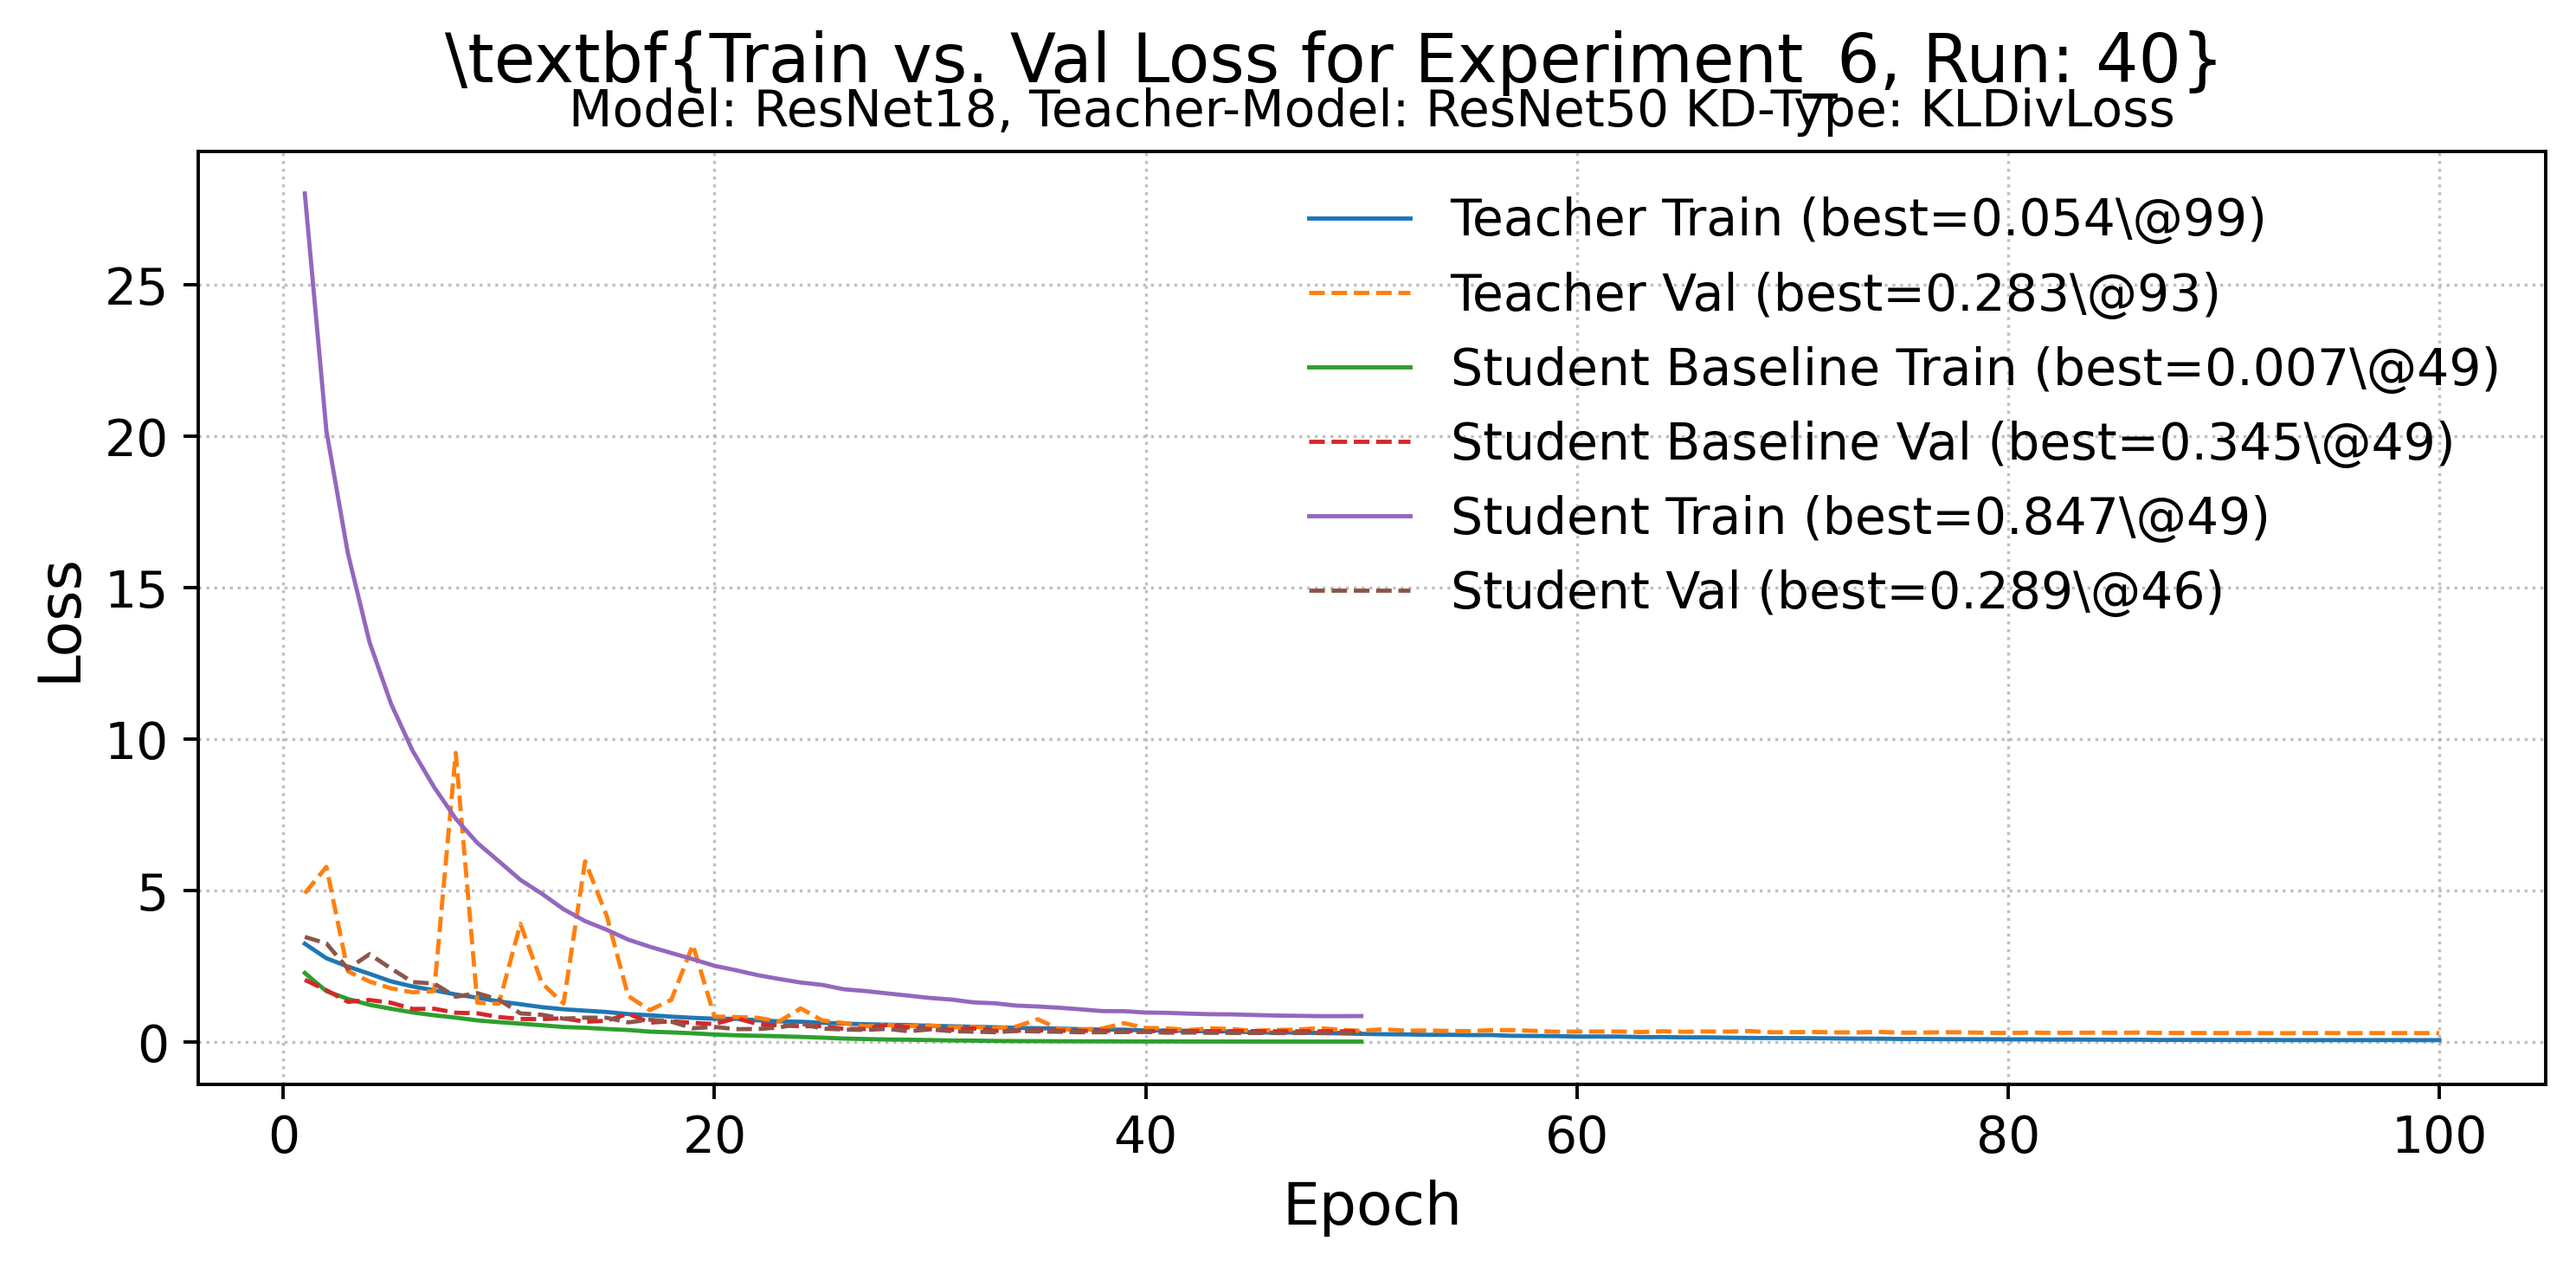
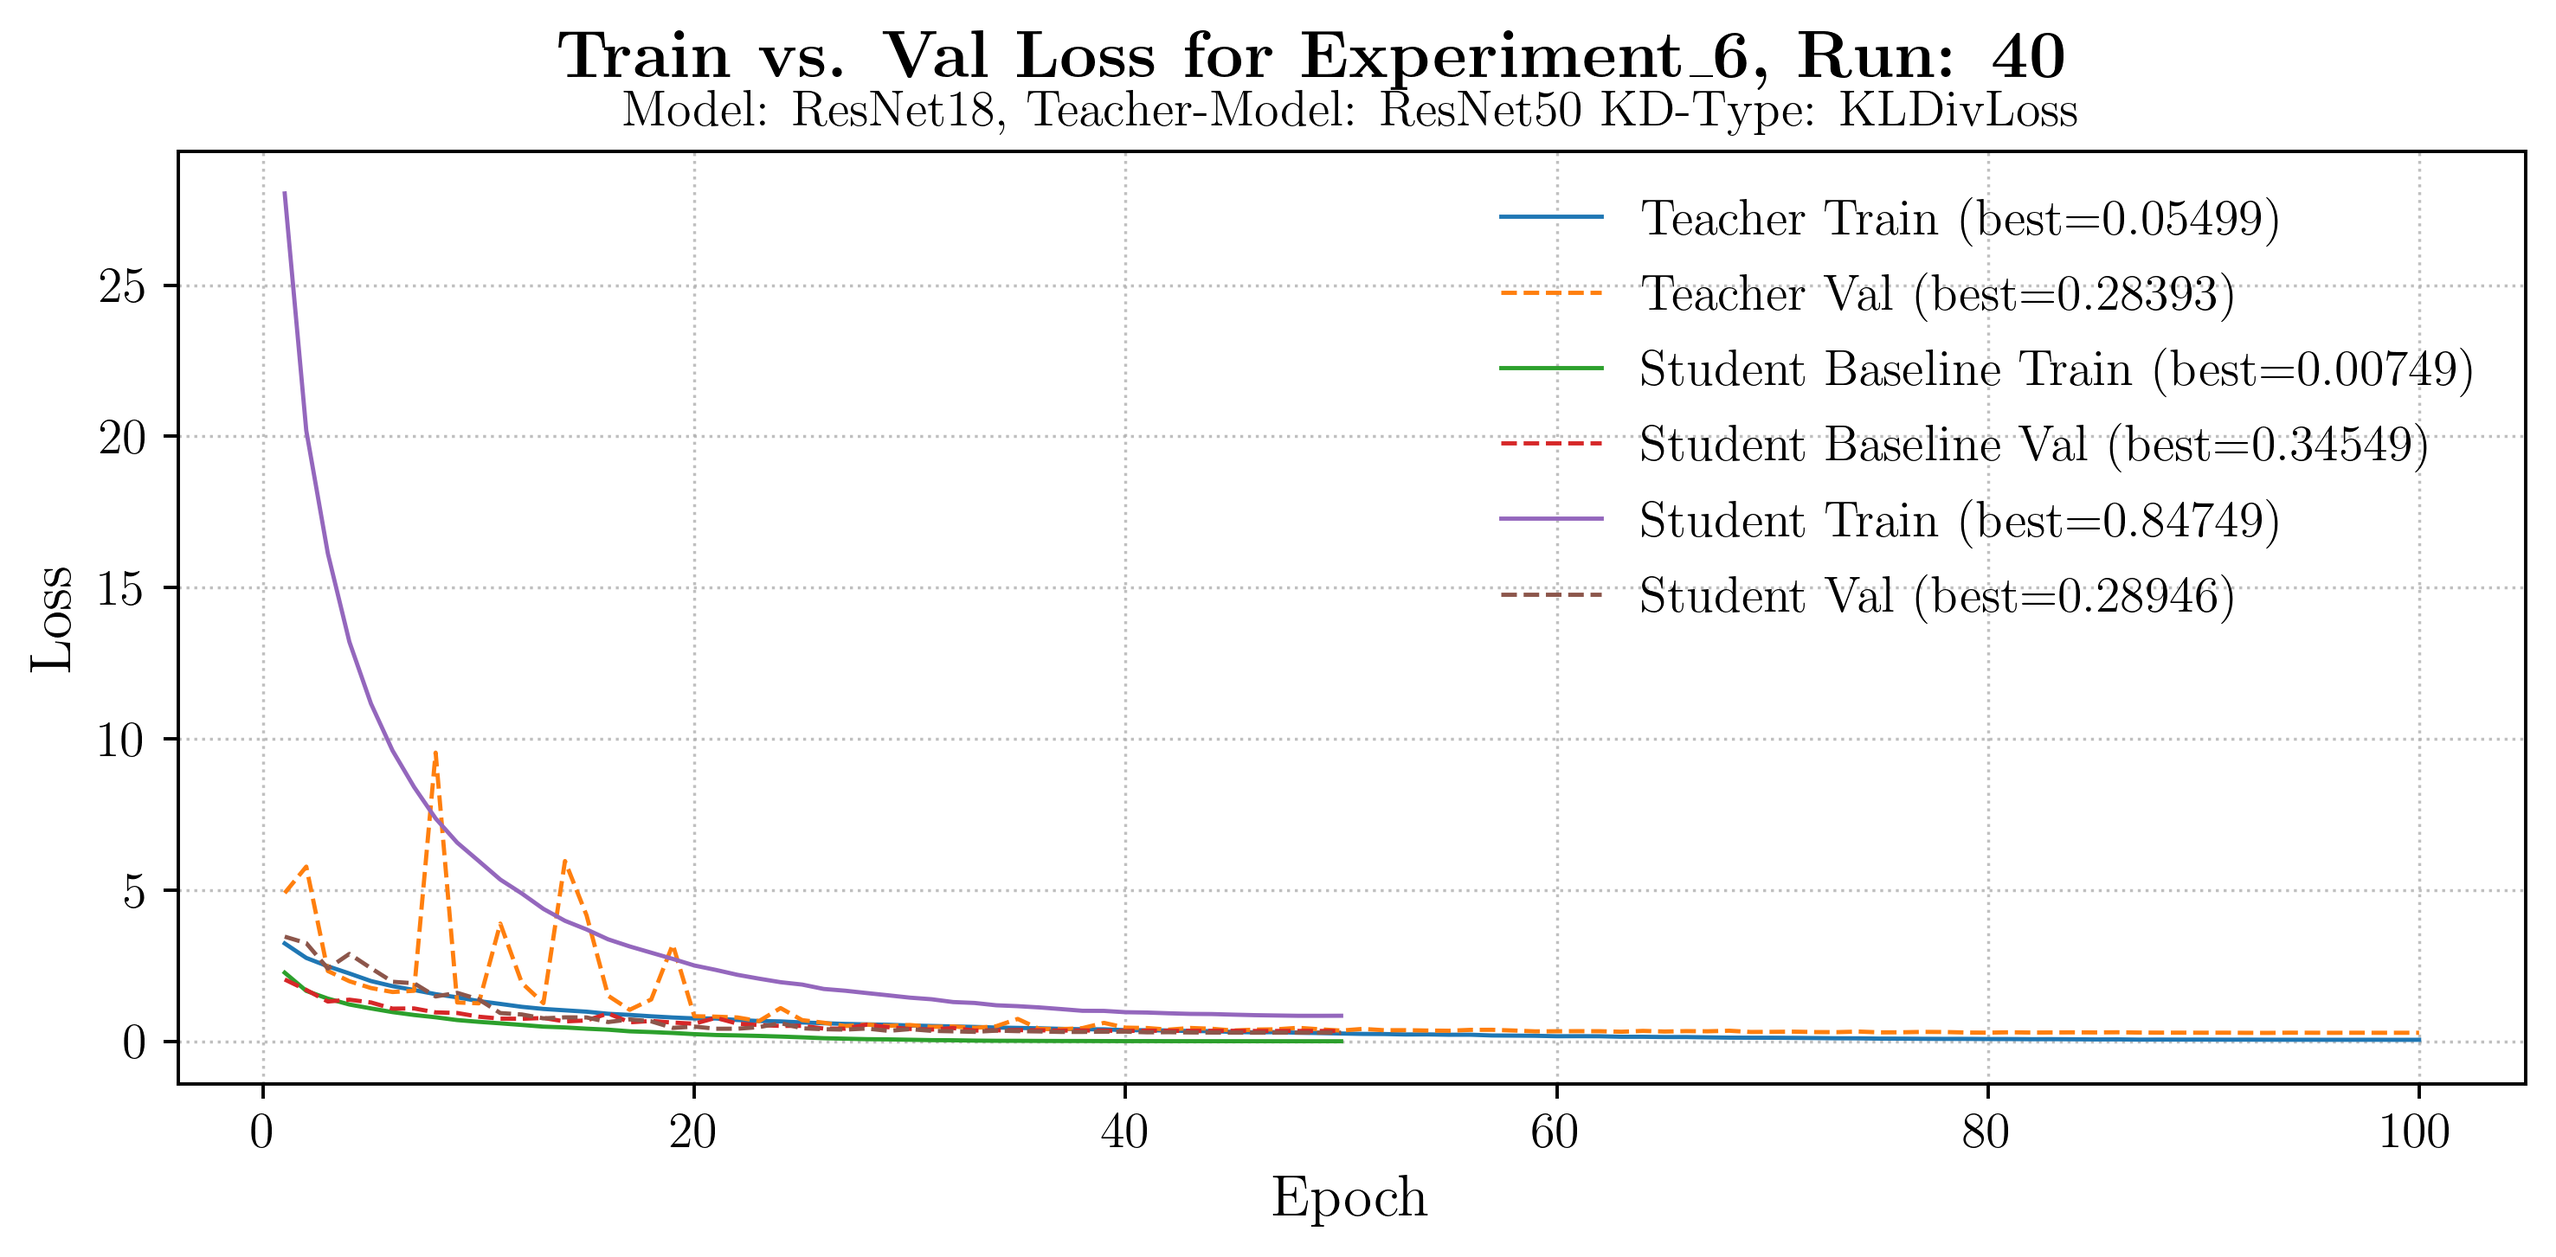
exp 6 run 40 (student = ResNet18, Teacher = ResNet50, no augmentation)

diff --git a/framework/utils/generate_plots.py b/framework/utils/generate_plots.py
@@ -20,8 +20,8 @@ def main():
     # _make_plots_for_experiment(experiment_name="Experiment_1", num_runs=12, only_overview=False)
     # _make_plots_for_experiment(experiment_name="Experiment_3", num_runs=24, only_overview=False)
     # _make_plots_for_experiment(experiment_name="Experiment_4", num_runs=24, only_overview=False)
-    _make_plots_for_experiment(experiment_name="Experiment_5", num_runs=8, only_overview=False)
-    # _make_plots_for_experiment(experiment_name="Experiment_6", num_runs=39, only_overview=False)
+    # _make_plots_for_experiment(experiment_name="Experiment_5", num_runs=8, only_overview=False)
+    _make_plots_for_experiment(experiment_name="Experiment_6", num_runs=40, only_overview=False)
 
 
 def _make_plots_for_experiment(experiment_name: str, num_runs: int, only_overview: bool = False):
